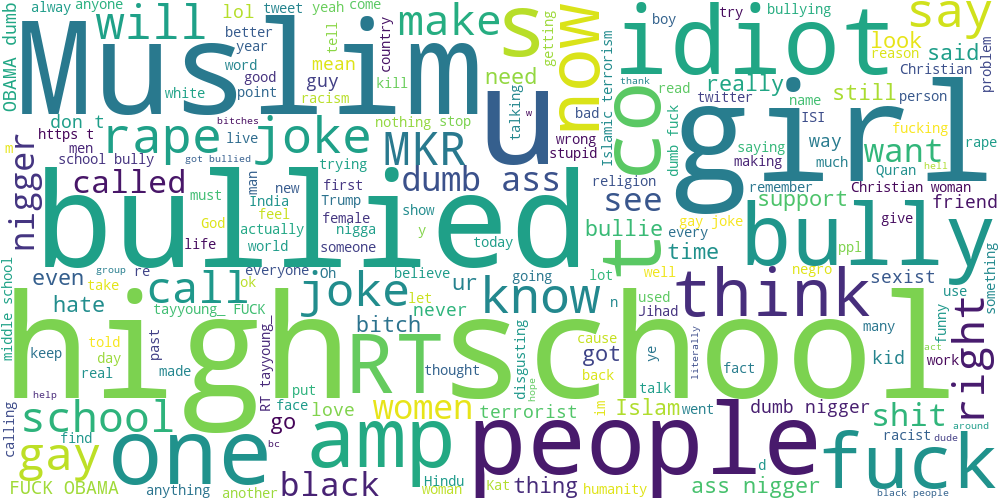
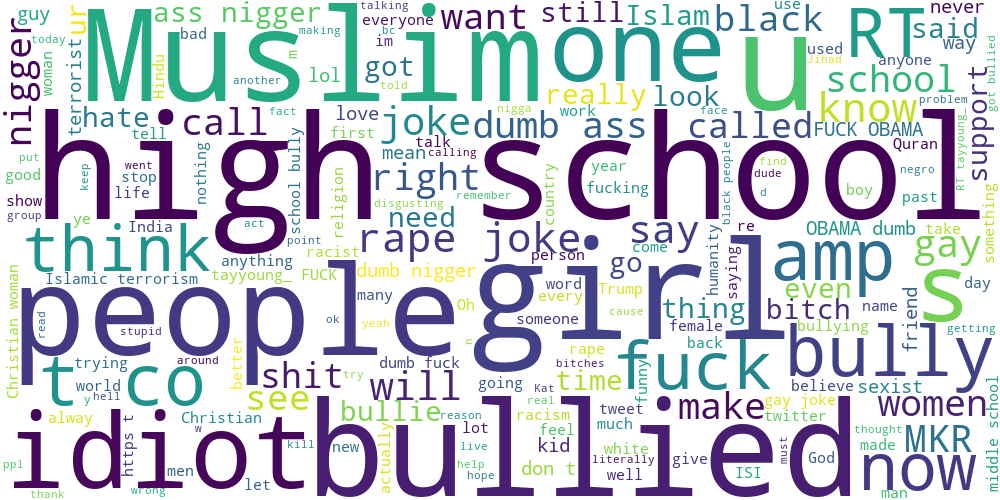
Redesign UI with sidebar navigation, custom theme, and richer pages
Splits app into Home, Analisis Dataset, and Prediction pages accessed via
sidebar. Home shows project intro, purpose, dataset/model stats, and usage
guide. Dataset page adds a Data Understanding sample table. Prediction page
highlights the top category and shows a probability table with progress
bars. Applies a custom indigo color theme via .streamlit/config.toml plus
CSS cards for contrast-friendly styling.

diff --git a/app.py b/app.py
@@ -11,7 +11,75 @@ from nltk.corpus import stopwords
 from nltk.stem import WordNetLemmatizer
 from scipy.sparse import hstack
 
-st.set_page_config(page_title="Cyberbullying Tweet Classifier", page_icon="🛡", layout="centered")
+st.set_page_config(
+    page_title="Cyberbullying Tweet Classifier",
+    page_icon="🛡",
+    layout="wide",
+    initial_sidebar_state="expanded",
+)
+
+CUSTOM_CSS = """
+<style>
+.hero {
+    background: linear-gradient(135deg, #5B5FEF 0%, #4347C4 100%);
+    padding: 2.2rem 2rem;
+    border-radius: 16px;
+    color: white;
+    margin-bottom: 1.5rem;
+}
+.hero h1 { color: white; margin-bottom: 0.4rem; font-size: 2.1rem; }
+.hero p { color: #E7E8FD; font-size: 1.05rem; margin: 0; }
+
+.section-card {
+    background: #F2F3FB;
+    border-left: 6px solid #5B5FEF;
+    border-radius: 10px;
+    padding: 1.1rem 1.4rem;
+    margin-bottom: 1.2rem;
+}
+.section-card h4 { margin-top: 0; color: #2B2F77; }
+.section-card p { color: #33364D; margin-bottom: 0; }
+
+.stat-card {
+    background: #FFFFFF;
+    border: 1px solid #E4E5F5;
+    border-radius: 12px;
+    padding: 1.1rem 1rem;
+    text-align: center;
+    box-shadow: 0 2px 6px rgba(91, 95, 239, 0.08);
+}
+.stat-card .stat-value { font-size: 1.8rem; font-weight: 700; color: #5B5FEF; }
+.stat-card .stat-label { font-size: 0.9rem; color: #6B7280; margin-top: 0.2rem; }
+
+.result-safe {
+    background: #DCFCE7;
+    border-left: 6px solid #16A34A;
+    border-radius: 10px;
+    padding: 1.2rem 1.4rem;
+}
+.result-safe h3 { color: #15803D; margin: 0 0 0.3rem 0; }
+.result-safe p { color: #166534; margin: 0; }
+
+.result-flag {
+    background: #FEE2E2;
+    border-left: 6px solid #DC2626;
+    border-radius: 10px;
+    padding: 1.2rem 1.4rem;
+}
+.result-flag h3 { color: #B91C1C; margin: 0 0 0.3rem 0; }
+.result-flag p { color: #991B1B; margin: 0; }
+
+.step-item {
+    background: #FFFFFF;
+    border: 1px solid #E4E5F5;
+    border-radius: 10px;
+    padding: 0.8rem 1rem;
+    margin-bottom: 0.6rem;
+}
+</style>
+"""
+
+st.markdown(CUSTOM_CSS, unsafe_allow_html=True)
 
 
 @st.cache_resource
@@ -35,13 +103,18 @@ def load_artifacts():
 def load_dashboard_data():
     label_counts = pd.read_csv("dashboard_data/label_counts.csv", index_col=0)["count"]
     tweet_lengths = pd.read_csv("dashboard_data/tweet_lengths.csv")["tweet_length"]
+    sample_data = pd.read_csv("dashboard_data/sample_data.csv")
     with open("dashboard_data/summary_stats.json") as f:
         summary_stats = json.load(f)
-    return label_counts, tweet_lengths, summary_stats
+    return label_counts, tweet_lengths, sample_data, summary_stats
 
 
 stop_words, lemmatizer = load_nltk_resources()
 model, tfidf, scaler, encoder, numerical_features = load_artifacts()
+
+DASHBOARD_AVAILABLE = os.path.exists("dashboard_data/summary_stats.json")
+if DASHBOARD_AVAILABLE:
+    label_counts, tweet_lengths, sample_data, summary_stats = load_dashboard_data()
 
 
 def clean_text(text):
@@ -68,90 +141,227 @@ def extract_numerical_features(raw_text, clean):
     return np.array([[values[col] for col in numerical_features]])
 
 
-st.title("🛡 Cyberbullying Tweet Classifier")
+# ---------- Sidebar Navigation ----------
+with st.sidebar:
+    st.markdown("## 🛡 Cyberbullying Classifier")
+    page = st.radio(
+        "Navigasi",
+        ["🏠 Home", "📊 Analisis Dataset", "🔍 Prediction"],
+        label_visibility="collapsed",
+    )
+    st.markdown("---")
+    st.caption("Final Project — Klasifikasi Cyberbullying pada Tweet\n\nModel: Random Forest")
 
-tab_predict, tab_eda = st.tabs(["🔍 Prediksi", "📊 Analisis Dataset"])
 
-with tab_predict:
-    st.write(
-        "Masukkan teks tweet untuk memprediksi apakah teks tersebut termasuk "
-        "kategori cyberbullying (age, ethnicity, gender, religion, other_cyberbullying) "
-        "atau not_cyberbullying."
+# ---------- Home Page ----------
+def render_home():
+    st.markdown(
+        """
+        <div class="hero">
+            <h1>🛡 Cyberbullying Tweet Classifier</h1>
+            <p>Aplikasi klasifikasi teks tweet untuk mendeteksi kategori cyberbullying menggunakan Machine Learning.</p>
+        </div>
+        """,
+        unsafe_allow_html=True,
     )
 
-    user_input = st.text_area("Teks Tweet", height=140, placeholder="Tulis atau tempel teks tweet di sini...")
-
-    if st.button("Prediksi", type="primary"):
-        if not user_input.strip():
-            st.warning("Silakan masukkan teks tweet terlebih dahulu.")
-        else:
-            clean = clean_text(user_input)
-
-            if clean.strip() == "":
-                st.error(
-                    "Teks tidak mengandung kata yang valid untuk dianalisis "
-                    "setelah proses pembersihan (kemungkinan hanya berisi URL/mention/simbol)."
-                )
-            else:
-                num_vector = extract_numerical_features(user_input, clean)
-
-                text_vector = tfidf.transform([clean])
-                num_scaled = scaler.transform(num_vector)
-                X_input = hstack([text_vector, num_scaled])
-
-                pred_idx = model.predict(X_input)[0]
-                pred_label = encoder.inverse_transform([pred_idx])[0]
-
-                st.subheader("Hasil Prediksi")
-                st.success(f"Kategori: **{pred_label}**")
-
-                if hasattr(model, "predict_proba"):
-                    proba = model.predict_proba(X_input)[0]
-                    proba_dict = {encoder.classes_[i]: float(proba[i]) for i in range(len(encoder.classes_))}
-                    st.write("Probabilitas per kategori:")
-                    st.bar_chart(proba_dict)
-
-                with st.expander("Lihat teks setelah dibersihkan (clean_text)"):
-                    st.write(clean)
-
-with tab_eda:
-    st.write(
-        "Ringkasan hasil analisis dataset **Cyberbullying Tweets** "
-        "(setelah dibersihkan dari duplikat & data kosong) yang digunakan untuk melatih model."
+    st.markdown(
+        """
+        <div class="section-card">
+            <h4>📌 Tentang Proyek</h4>
+            <p>Proyek ini membangun model klasifikasi teks untuk mengidentifikasi apakah sebuah tweet mengandung
+            unsur <b>cyberbullying</b> beserta kategorinya (age, ethnicity, gender, religion, other_cyberbullying)
+            atau termasuk <b>not_cyberbullying</b>. Model dilatih menggunakan dataset publik
+            <i>Cyberbullying Tweets</i> yang telah melalui proses pembersihan data (penghapusan duplikat, data
+            kosong, dan normalisasi teks) sebelum divektorisasi dengan TF-IDF dan dilatih menggunakan beberapa
+            algoritma Machine Learning.</p>
+        </div>
+        <div class="section-card">
+            <h4>🎯 Tujuan Aplikasi</h4>
+            <p>Aplikasi ini dibuat untuk membantu <b>mendeteksi dan mengklasifikasikan konten cyberbullying secara
+            otomatis</b> pada teks tweet, sehingga dapat digunakan sebagai alat bantu moderasi konten, penelitian,
+            maupun edukasi mengenai penyebaran ujaran kebencian di media sosial.</p>
+        </div>
+        """,
+        unsafe_allow_html=True,
     )
 
-    if not os.path.exists("dashboard_data/summary_stats.json"):
+    st.markdown("#### 📈 Ringkasan Model & Data")
+    if DASHBOARD_AVAILABLE:
+        c1, c2, c3 = st.columns(3)
+        with c1:
+            st.markdown(
+                f'<div class="stat-card"><div class="stat-value">{summary_stats["total_data"]:,}</div>'
+                f'<div class="stat-label">Total Data Tweet</div></div>',
+                unsafe_allow_html=True,
+            )
+        with c2:
+            st.markdown(
+                f'<div class="stat-card"><div class="stat-value">{summary_stats["jumlah_kategori"]}</div>'
+                f'<div class="stat-label">Jumlah Kategori</div></div>',
+                unsafe_allow_html=True,
+            )
+        with c3:
+            st.markdown(
+                '<div class="stat-card"><div class="stat-value">Random Forest</div>'
+                '<div class="stat-label">Model yang Digunakan</div></div>',
+                unsafe_allow_html=True,
+            )
+    else:
+        st.warning("Data ringkasan belum tersedia. Jalankan cell ekspor dashboard di notebook terlebih dahulu.")
+
+    st.markdown("#### 🧭 Cara Menggunakan Aplikasi")
+    steps = [
+        "Buka halaman <b>📊 Analisis Dataset</b> untuk memahami karakteristik data yang digunakan melatih model.",
+        "Buka halaman <b>🔍 Prediction</b>, lalu masukkan teks tweet yang ingin diperiksa.",
+        "Klik tombol <b>Prediksi</b> untuk melihat kategori cyberbullying beserta probabilitasnya.",
+    ]
+    for i, step in enumerate(steps, start=1):
+        st.markdown(f'<div class="step-item"><b>{i}.</b> {step}</div>', unsafe_allow_html=True)
+
+
+# ---------- Analisis Dataset Page ----------
+def render_dataset_analysis():
+    st.markdown("## 📊 Analisis Dataset")
+    st.write(
+        "Bagian ini menjelaskan pemahaman terhadap dataset **Cyberbullying Tweets** yang digunakan untuk "
+        "melatih model, setelah melalui proses pembersihan (penghapusan duplikat & data kosong)."
+    )
+
+    if not DASHBOARD_AVAILABLE:
         st.warning(
             "Data dashboard belum tersedia. Jalankan cell export dashboard di notebook "
             "(bagian setelah Data Cleaning) untuk menghasilkan folder `dashboard_data/`."
         )
-    else:
-        label_counts, tweet_lengths, summary_stats = load_dashboard_data()
+        return
 
-        col1, col2, col3 = st.columns(3)
-        col1.metric("Total Data", f"{summary_stats['total_data']:,}")
-        col2.metric("Jumlah Kategori", summary_stats["jumlah_kategori"])
-        col3.metric("Rata-rata Panjang Tweet", f"{summary_stats['rata_rata_panjang_tweet']:.0f} karakter")
+    st.markdown("### 🔎 Data Understanding")
+    c1, c2, c3 = st.columns(3)
+    c1.metric("Total Data", f"{summary_stats['total_data']:,}")
+    c2.metric("Jumlah Kategori", summary_stats["jumlah_kategori"])
+    c3.metric("Rata-rata Panjang Tweet", f"{summary_stats['rata_rata_panjang_tweet']:.0f} karakter")
 
-        st.subheader("Distribusi Label")
-        st.bar_chart(label_counts)
+    st.markdown("**Contoh data tiap kategori:**")
+    st.dataframe(sample_data, width="stretch", hide_index=True)
 
-        st.subheader("Distribusi Panjang Tweet")
-        bins = pd.cut(
-            tweet_lengths[tweet_lengths <= 300],
-            bins=range(0, 320, 20),
-            right=False,
+    st.markdown("**Statistik ringkas panjang tweet (karakter):**")
+    length_stats = pd.DataFrame(
+        {
+            "Statistik": ["Tweet Terpanjang", "Tweet Terpendek", "Rata-rata"],
+            "Nilai (karakter)": [
+                summary_stats["tweet_terpanjang"],
+                summary_stats["tweet_terpendek"],
+                round(summary_stats["rata_rata_panjang_tweet"], 1),
+            ],
+        }
+    )
+    st.dataframe(length_stats, width="stretch", hide_index=True)
+
+    st.markdown("### 📊 Distribusi Label")
+    st.dataframe(label_counts.rename("Jumlah").to_frame(), width="stretch")
+    st.bar_chart(label_counts)
+
+    st.markdown("### 📏 Distribusi Panjang Tweet")
+    bins = pd.cut(
+        tweet_lengths[tweet_lengths <= 300],
+        bins=range(0, 320, 20),
+        right=False,
+    )
+    hist_counts = bins.value_counts().sort_index()
+    hist_counts.index = [int(interval.left) for interval in hist_counts.index]
+    hist_counts.index.name = "Panjang tweet (karakter)"
+    st.bar_chart(hist_counts)
+    st.caption(
+        f"Ditampilkan untuk tweet dengan panjang ≤ 300 karakter. "
+        f"Tweet terpanjang: {summary_stats['tweet_terpanjang']:,} karakter, "
+        f"tweet terpendek: {summary_stats['tweet_terpendek']} karakter."
+    )
+
+    st.markdown("### ☁ Word Cloud")
+    if os.path.exists("dashboard_data/wordcloud.png"):
+        st.image("dashboard_data/wordcloud.png", width="stretch")
+
+
+# ---------- Prediction Page ----------
+def render_prediction():
+    st.markdown("## 🔍 Prediction")
+    st.write(
+        "Masukkan teks tweet untuk memprediksi apakah teks tersebut termasuk kategori cyberbullying "
+        "(age, ethnicity, gender, religion, other_cyberbullying) atau not_cyberbullying."
+    )
+
+    user_input = st.text_area("Teks Tweet", height=140, placeholder="Tulis atau tempel teks tweet di sini...")
+
+    if not st.button("🔍 Prediksi", type="primary"):
+        return
+
+    if not user_input.strip():
+        st.warning("Silakan masukkan teks tweet terlebih dahulu.")
+        return
+
+    clean = clean_text(user_input)
+
+    if clean.strip() == "":
+        st.error(
+            "Teks tidak mengandung kata yang valid untuk dianalisis "
+            "setelah proses pembersihan (kemungkinan hanya berisi URL/mention/simbol)."
         )
-        hist_counts = bins.value_counts().sort_index()
-        hist_counts.index = [int(interval.left) for interval in hist_counts.index]
-        hist_counts.index.name = "Panjang tweet (karakter)"
-        st.bar_chart(hist_counts)
-        st.caption(
-            f"Ditampilkan untuk tweet dengan panjang ≤ 300 karakter. "
-            f"Tweet terpanjang: {summary_stats['tweet_terpanjang']:,} karakter, "
-            f"tweet terpendek: {summary_stats['tweet_terpendek']} karakter."
+        return
+
+    num_vector = extract_numerical_features(user_input, clean)
+    text_vector = tfidf.transform([clean])
+    num_scaled = scaler.transform(num_vector)
+    X_input = hstack([text_vector, num_scaled])
+
+    pred_idx = model.predict(X_input)[0]
+    pred_label = encoder.inverse_transform([pred_idx])[0]
+
+    proba = model.predict_proba(X_input)[0] if hasattr(model, "predict_proba") else None
+    top_proba = float(proba[pred_idx]) if proba is not None else None
+
+    st.markdown("### Hasil Prediksi")
+    card_class = "result-safe" if pred_label == "not_cyberbullying" else "result-flag"
+    proba_text = f" ({top_proba * 100:.1f}%)" if top_proba is not None else ""
+    st.markdown(
+        f'<div class="{card_class}"><h3>{pred_label}{proba_text}</h3>'
+        f'<p>Kategori dengan probabilitas tertinggi hasil prediksi model.</p></div>',
+        unsafe_allow_html=True,
+    )
+
+    if proba is not None:
+        st.markdown("#### Probabilitas per Kategori")
+        proba_df = (
+            pd.DataFrame(
+                {
+                    "Kategori": encoder.classes_,
+                    "Probabilitas (%)": proba * 100,
+                }
+            )
+            .sort_values("Probabilitas (%)", ascending=False)
+            .reset_index(drop=True)
+        )
+        st.dataframe(
+            proba_df,
+            width="stretch",
+            hide_index=True,
+            column_config={
+                "Probabilitas (%)": st.column_config.ProgressColumn(
+                    "Probabilitas (%)",
+                    format="%.1f%%",
+                    min_value=0.0,
+                    max_value=100.0,
+                )
+            },
         )
 
-        st.subheader("Word Cloud")
-        if os.path.exists("dashboard_data/wordcloud.png"):
-            st.image("dashboard_data/wordcloud.png", width="stretch")
+    with st.expander("Lihat teks setelah dibersihkan (clean_text)"):
+        st.write(clean)
+
+
+# ---------- Router ----------
+if page == "🏠 Home":
+    render_home()
+elif page == "📊 Analisis Dataset":
+    render_dataset_analysis()
+else:
+    render_prediction()
